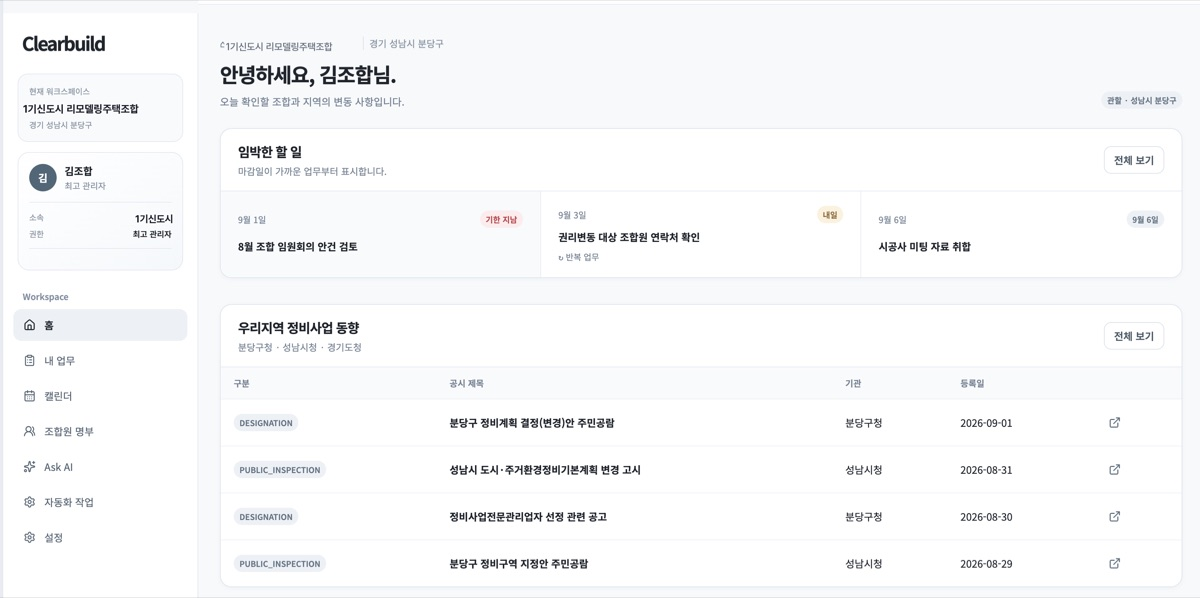
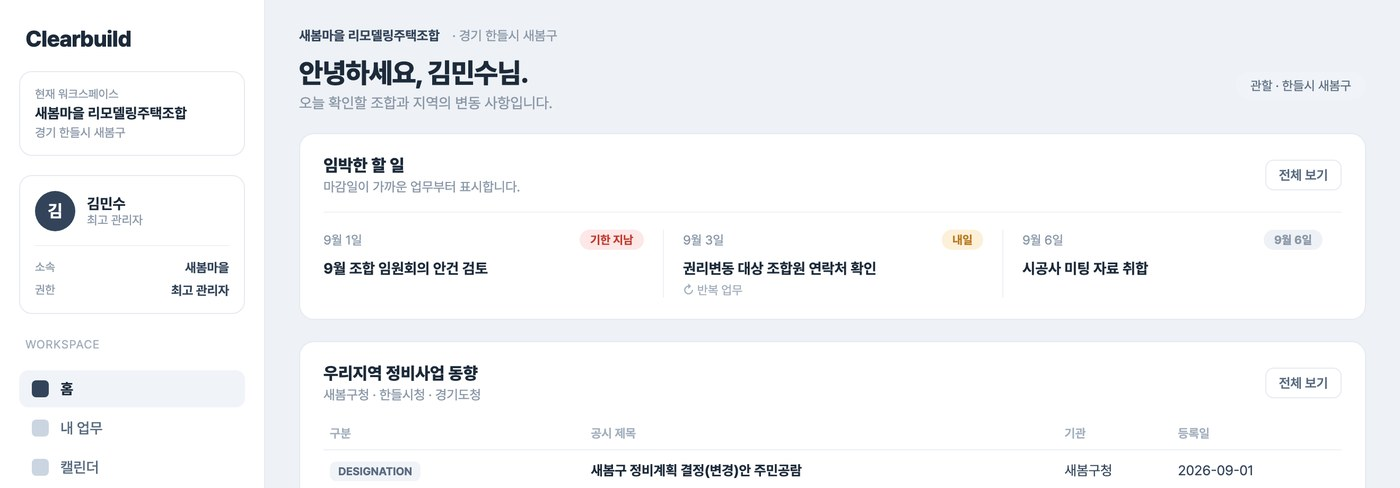
실물시연 대시보드 이미지 교체: 마스킹 누수(성남/분당) 제거 + 비율 정리(새봄마을/한들시 목)

diff --git a/index.html b/index.html
@@ -679,7 +679,7 @@
           </div>
           <div class="tabpanel" data-p="2">
             <span class="pcaption">조합 대시보드 · 실제 제품 · 마스킹</span>
-            <img class="shotimg" src="/assets/dash-shot.jpg" width="1200" height="598" loading="lazy" decoding="async" alt="CLEARBUILD 조합 대시보드 — 단지명·수치를 마스킹한 실제 제품 화면">
+            <img class="shotimg" src="/assets/dash-shot.jpg" width="1400" height="488" loading="lazy" decoding="async" alt="CLEARBUILD 조합 대시보드 — 단지명·수치를 마스킹한 실제 제품 화면">
           </div>
         </div>
       </div>
